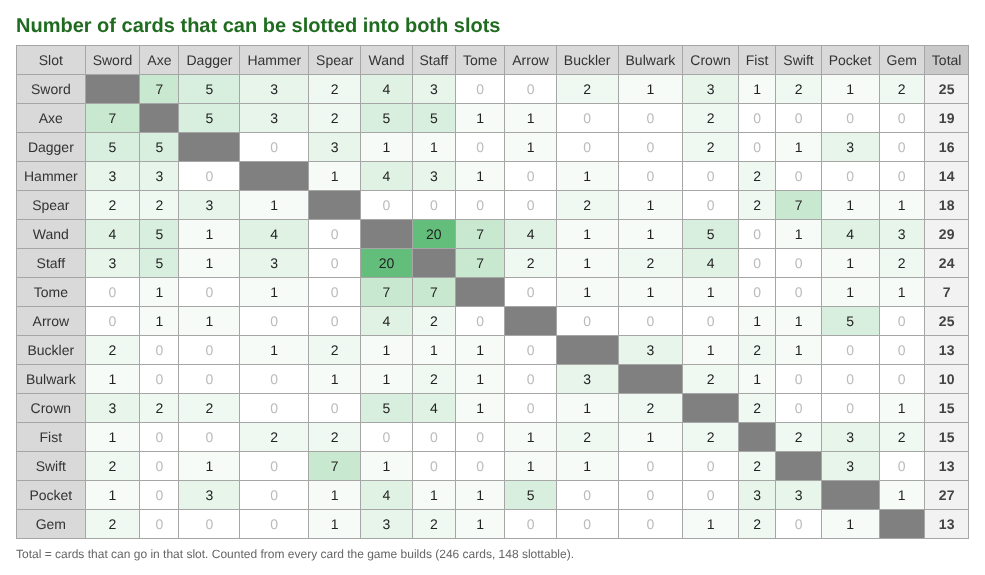
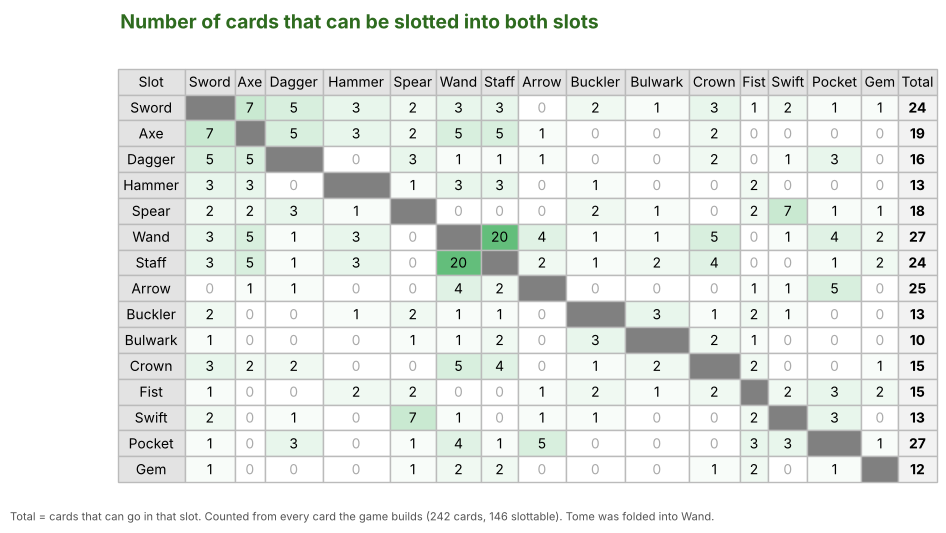
Slot-sharing matrix rebuilt from the game's cards (Tome gone)
tools/build_slot_sharing.py (with tools/dump_slot_labels.gd) regenerates
docs/SLOT_SHARING.csv, .xlsx and .png together from Card.get_all_cards,
so the three can no longer drift: 242 cards, 146 slottable, Tome folded
into Wand.

Claude-Session: https://claude.ai/code/session_01RAg9ab48AKvNpfzcLfTnsF

diff --git a/tools/build_slot_sharing.py b/tools/build_slot_sharing.py
@@ -1,0 +1,150 @@
+#!/usr/bin/env python3
+"""Rebuild docs/SLOT_SHARING.csv, .xlsx and .png from the game's cards.
+
+For every pair of slot labels: how many cards carry both (a card with both
+labels can go in either kind of item). The cards and their labels come from
+the game itself (tools/dump_slot_labels.gd -> Card.get_all_cards), so the
+three files always agree with the code. Run after slot labels change:
+  python3 tools/build_slot_sharing.py
+Needs openpyxl and matplotlib (tool dependencies, not the game's).
+"""
+import json
+import os
+import subprocess
+import tempfile
+
+import matplotlib
+matplotlib.use("Agg")
+import matplotlib.pyplot as plt
+from openpyxl import Workbook
+from openpyxl.styles import Alignment, Font, PatternFill
+
+ORDER = ["Sword", "Axe", "Dagger", "Hammer", "Spear", "Wand", "Staff", "Arrow",
+         "Buckler", "Bulwark", "Crown", "Fist", "Swift", "Pocket", "Gem"]
+OUT = "docs/SLOT_SHARING"
+
+
+def load_cards():
+    with tempfile.TemporaryDirectory() as d:
+        path = os.path.join(d, "cards.json")
+        subprocess.run(["godot", "--headless", "--path", ".", "--script",
+                        "tools/dump_slot_labels.gd", "--", path],
+                       check=True, capture_output=True)
+        with open(path) as f:
+            return json.load(f)
+
+
+def matrix(cards):
+    sets = [set(c["labels"]) for c in cards if c["labels"]]
+    m = {a: {b: sum(1 for s in sets if a in s and b in s) for b in ORDER} for a in ORDER}
+    total = {a: sum(1 for s in sets if a in s) for a in ORDER}
+    only = {a: sum(1 for s in sets if s == {a}) for a in ORDER}
+    return m, total, only, len(sets)
+
+
+def write_csv(m, total, only):
+    lines = ["Slot," + ",".join(ORDER) + ",Cards with this slot,Only this slot"]
+    for a in ORDER:
+        row = [a] + ["" if a == b else str(m[a][b]) for b in ORDER] + [str(total[a]), str(only[a])]
+        lines.append(",".join(row))
+    with open(OUT + ".csv", "w") as f:
+        f.write("\n".join(lines) + "\n")
+
+
+def green(n, top):
+    # White to the chart's green, by share of the busiest pair.
+    t = 0 if top == 0 else min(1.0, n / top)
+    r, g, b = 255 - int(t * (255 - 99)), 255 - int(t * (255 - 190)), 255 - int(t * (255 - 123))
+    return r, g, b
+
+
+def write_xlsx(cards, m, total, only, n_slottable):
+    wb = Workbook()
+    ws = wb.active
+    ws.title = "Matrix"
+    ws["A1"] = "Number of cards that can be slotted into both slots"
+    ws["A1"].font = Font(bold=True, size=13)
+    ws["A2"] = ("Each cell counts the cards whose slot labels include both the row's and the "
+                "column's slot. Source: every card the game builds (Card.create_by_id), "
+                "%d cards, %d of them slottable. Tome was folded into Wand (2026-10-20)."
+                % (len(cards), n_slottable))
+    head = ["Slot"] + ORDER + ["Cards with this slot", "Only this slot"]
+    for j, h in enumerate(head):
+        c = ws.cell(row=4, column=j + 1, value=h)
+        c.font = Font(bold=True)
+        c.alignment = Alignment(horizontal="center")
+    top = max(m[a][b] for a in ORDER for b in ORDER if a != b)
+    for i, a in enumerate(ORDER):
+        ws.cell(row=5 + i, column=1, value=a).font = Font(bold=True)
+        for j, b in enumerate(ORDER):
+            c = ws.cell(row=5 + i, column=2 + j)
+            c.alignment = Alignment(horizontal="center")
+            if a == b:
+                c.fill = PatternFill("solid", fgColor="808080")
+                continue
+            c.value = m[a][b]
+            r, g, bl = green(m[a][b], top)
+            c.fill = PatternFill("solid", fgColor="%02X%02X%02X" % (r, g, bl))
+        ws.cell(row=5 + i, column=2 + len(ORDER), value=total[a]).font = Font(bold=True)
+        ws.cell(row=5 + i, column=3 + len(ORDER), value=only[a])
+    ws.column_dimensions["A"].width = 10
+    cs = wb.create_sheet("Cards")
+    cs.append(["Card", "Card id", "Slots", "Slot count", "Engrave only"] + ORDER)
+    for c in sorted((c for c in cards if c["labels"]), key=lambda c: (-len(c["labels"]), c["name"])):
+        cs.append([c["name"], c["id"], " / ".join(c["labels"]), len(c["labels"]),
+                   "yes" if c["engrave"] else None] + ["✓" if s in c["labels"] else None for s in ORDER])
+    for col in ("A", "B", "C"):
+        cs.column_dimensions[col].width = 28
+    wb.save(OUT + ".xlsx")
+
+
+def write_png(cards, m, total, n_slottable):
+    head = ["Slot"] + ORDER + ["Total"]
+    rows = []
+    for a in ORDER:
+        rows.append([a] + ["" if a == b else str(m[a][b]) for b in ORDER] + [str(total[a])])
+    top = max(m[a][b] for a in ORDER for b in ORDER if a != b)
+    fig, ax = plt.subplots(figsize=(10.5, 6.2), dpi=100)
+    ax.axis("off")
+    t = ax.table(cellText=rows, colLabels=head, loc="center", cellLoc="center")
+    t.auto_set_font_size(False)
+    t.set_fontsize(10)
+    t.auto_set_column_width(col=list(range(len(head))))
+    t.scale(1, 1.55)
+    for (i, j), cell in t.get_celld().items():
+        cell.set_edgecolor("#bbbbbb")
+        if i == 0 or j == 0:
+            cell.set_facecolor("#e3e3e3")
+            continue
+        if j == len(head) - 1:
+            cell.set_facecolor("#f2f2f2")
+            cell.get_text().set_fontweight("bold")
+            continue
+        a, b = ORDER[i - 1], ORDER[j - 1]
+        if a == b:
+            cell.set_facecolor("#808080")
+            continue
+        n = m[a][b]
+        r, g, bl = green(n, top)
+        cell.set_facecolor((r / 255, g / 255, bl / 255))
+        if n == 0:
+            cell.get_text().set_color("#aaaaaa")
+    ax.set_title("Number of cards that can be slotted into both slots", loc="left",
+                 color="#2e6b1f", fontweight="bold", fontsize=14)
+    fig.text(0.02, 0.1, "Total = cards that can go in that slot. Counted from every card the game "
+             "builds (%d cards, %d slottable). Tome was folded into Wand." % (len(cards), n_slottable),
+             fontsize=8, color="#555555")
+    fig.savefig(OUT + ".png", bbox_inches="tight")
+
+
+def main():
+    cards = load_cards()
+    m, total, only, n = matrix(cards)
+    write_csv(m, total, only)
+    write_xlsx(cards, m, total, only, n)
+    write_png(cards, m, total, n)
+    print("slot sharing: %d cards, %d slottable -> %s.csv/.xlsx/.png" % (len(cards), n, OUT))
+
+
+if __name__ == "__main__":
+    main()
